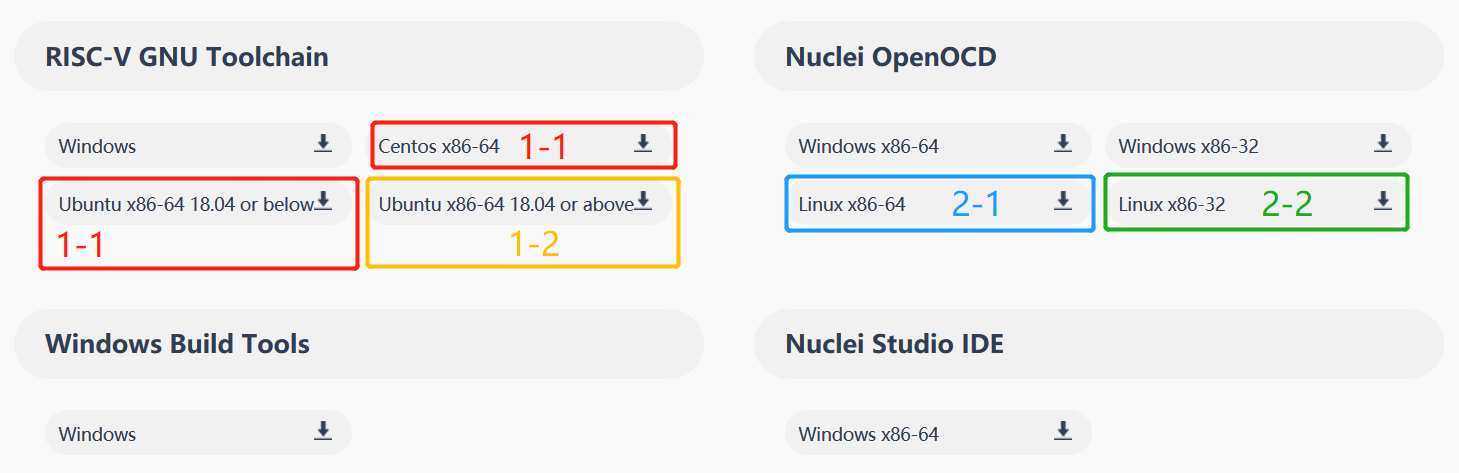
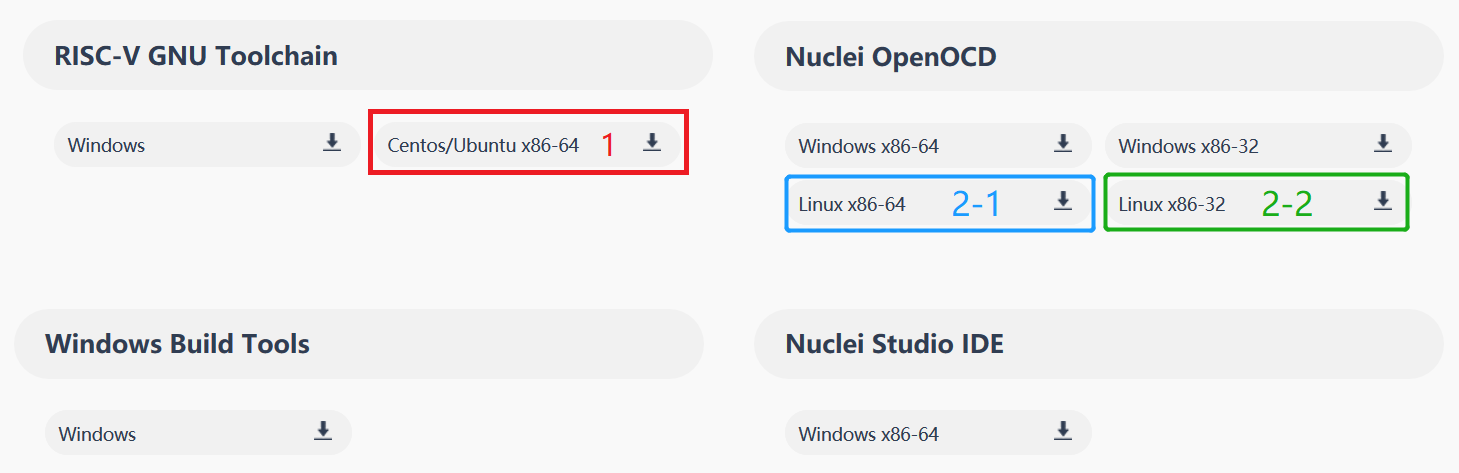
doc: Update tool download steps for 2020.08 release

Changed region(s): [[0.0, 0.2072, 0.4935, 0.592], [0.0308, 0.0888, 0.2467, 0.148], [0.0308, 0.296, 0.0925, 0.3256]]

diff --git a/doc/source/quickstart.rst b/doc/source/quickstart.rst
@@ -21,6 +21,13 @@ Install and Setup Tools in Windows
 Make sure you are using at least **Windows 7**, and then you can follow the following steps
 to download and install tools for you.
 
+.. note::
+
+    Since **2020.08** release version of Nuclei Studio, you can just download the **Nuclei Studio IDE**,
+    and no need to do the following steps now, the prebuilt tools are already included, for example,
+    if you have extracted the Nuclei Studio IDE to ``D:\Software\NucleiStudio_IDE_202008``, then you
+    can find the prebuilt tools in ``D:\Software\NucleiStudio_IDE_202008\NucleiStudio\toolchain``.
+
 1. Create an ``Nuclei`` folder in your Windows Environment, such as ``D:\Software\Nuclei``
 
 2. Download the following tools from |nuclei_download_center|, please check and follow
@@ -82,7 +89,6 @@ to download and install tools for you.
 
          Nuclei Windows Build Tools directory structure of build-tools
 
-
 .. _quickstart_setup_tools_env_linux:
 
 Install and Setup Tools in Linux
@@ -96,12 +102,11 @@ to download and install tools for you.
 2. Download the following tools from |nuclei_download_center|, please check and follow
    the figure :ref:`figure_quickstart_5`.
 
-   - **Nuclei RISC-V GNU Toolchain for Linux**, for **CentOS or Ubuntu < 18.04** click number **1-1**,
-     for **Ubuntu >=18.04** click number **1-2** in the figure :ref:`figure_quickstart_5`
+   - **Nuclei RISC-V GNU Toolchain for Linux**, for **CentOS or Ubuntu** click number **1**
+     in the figure :ref:`figure_quickstart_5`
    - **Nuclei OpenOCD for Linux**, see number **2-1** for 64bit version in the figure :ref:`figure_quickstart_5`
    - **Make >= 3.82**: Install ``Make`` using ``sudo apt-get install make`` in Ubuntu,
      or ``sudo yum install make`` in CentOS.
-
 
 .. _figure_quickstart_5:
 
@@ -162,6 +167,13 @@ The source code of Nuclei SDK is maintained in |github| and |gitee|.
      .. code-block:: bat
 
          set NUCLEI_TOOL_ROOT=D:\Software\Nuclei
+
+     Or If you are directly using prebuilt tools in *Nuclei Studio(>= 2020.08)* such
+     as ``D:\Software\NucleiStudio_IDE_202008\NucleiStudio\toolchain``.
+
+     .. code-block:: bat
+
+         set NUCLEI_TOOL_ROOT=D:\Software\NucleiStudio_IDE_202008\NucleiStudio\toolchain
 
   - **Linux**
      Create ``setup_config.sh`` in ``nuclei-sdk`` folder, and open this file
